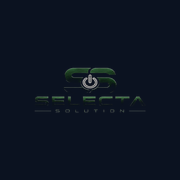
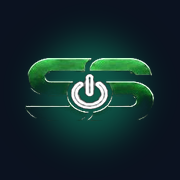
Add files via upload

Changed region(s): [[0.1389, 0.1944, 0.8611, 0.8056]]

diff --git a/index.html b/index.html
@@ -1,3 +1,4 @@
+<!-- BUILD 2026-08-25-F | selecta-banco-preco | CELULAR — CORRECAO DA FILA + ICONE (prints Igor 25/08 sobre 25-E): (1) CAUSA das linhas sobrepostas: o bloco de CSS celular (id mobile-css) estava no head, e os estilos do e-commerce ficam em blocos de estilo DENTRO do body — mesma especificidade, ordem posterior, venciam. Bloco movido para o FIM do body, com !important onde o template usa estilo inline. Cartao da fila em 4 andares: numero+produto / pedido-sku-data-valor / rastreio / status+semaforo+ocorrencia-ou-postado (botao a direita). (2) ICONES regenerados: emblema SS recortado do logo, realcado (brilho/contraste/saturacao) sobre navy com halo esmeralda — o wordmark inteiro sumia no icone. Mesmos nomes de arquivo (icon-192/512, apple-touch-icon); no iPhone e preciso remover e adicionar de novo para trocar o icone. Zero mudanca de logica, zero SQL. | base: 2026-08-25-E -->
 <!-- BUILD 2026-08-25-E | selecta-banco-preco | CELULAR + PWA + CORRECOES (ordem Igor 25/08): (1) CAUSA DO "\n\n \n" NO TOPO: tres carimbos BUILD antigos (24-B, 24-A->23-B, 21-E->21-D) foram colados com a sequencia literal barra-n entre o fim de um comentario e o inicio do seguinte, em vez de quebra de linha real; esse texto fica FORA de comentario, antes do DOCTYPE, e o navegador o joga no topo do body. Corrigido: quebra real nos 3 pontos. (2) PWA: manifest.json (standalone, navy #0b1220, icones 192/512 gerados do logo sobre navy), apple-touch-icon.png 180, meta theme-color + apple-mobile-web-app-*, viewport-fit=cover com safe-area no header em modo standalone, sw.js MINIMO registrado no fim do body (sem cache; so para instalabilidade). (3) CSS celular (<=640px) em <style id="mobile-css"> no head: header com nav rolavel e e-mail oculto; sub-abas do e-commerce rolaveis; fila Vendas em CARTAO (produto em linha propria, meta menor, controles em linha com alvo de toque 40px, select de ocorrencia sem min-width fixo, botao postado a direita); formulario Lancar venda empilhado; faixa Compras do dia com botao PDF em largura total. Zero mudanca de logica. (4) pdfCompra: em tela de toque, abre a folha nativa de compartilhar com o PDF anexado (navigator.share + canShare); se o usuario cancelar ou o navegador nao suportar, cai no download de sempre. (5) lucide fixado em 0.577.0 (estava @latest, que hoje resolve para 1.34.0 — major diferente do usado no desenvolvimento). Zero SQL. | base: 2026-08-25-D -->
 <!-- BUILD 2026-08-25-D | selecta-banco-preco | PDF COMPRA — MARCA ESCURA (correcao Igor 25/08 sobre 25-C: "a marca da gente e escura"): pagina inteira navy #0b1220 (mesma da UI), logo no escuro como no header do site (52x22mm), titulo ORCAMENTO claro 13pt a direita + data em teal, filete esmeralda; tabela como painel #111a2e sobre o navy, cabecalho teal em caixa alta, texto claro, separadores #1f2a40, QTD em teal negrito; rodape discreto com pagina. Fundo/cabecalho/rodape repetidos por pagina (willDrawPage, existe na autotable 3.8.0 carregada). Conteudo inalterado. Zero SQL. | base: 2026-08-25-C -->
 <!-- BUILD 2026-08-25-C | selecta-banco-preco | PDF COMPRA — LAYOUT (correcoes Igor 25/08 sobre 25-B): titulo vira "ORCAMENTO" (13pt, discreto, a direita); cabecalho em fundo branco com o logo em tamanho de cabecalho na cor padrao (verde metalico/cromado) e filete teal; linha orientativa REMOVIDA; tabela theme plain (sem zebra), cabecalho em caixa alta cinza com filete teal, linhas separadas por filete claro, QTD em negrito; rodape com "Selecta Solution" e numero de pagina; faixa/rodape repetidos em toda pagina (didDrawPage). Arquivo orcamento_compra_AAAA-MM-DD.pdf. Conteudo (descricao completa + quantidade, sem preco/total/pedido/comprador) inalterado. Zero SQL. | base: 2026-08-25-B -->
@@ -193,43 +194,6 @@
   }
 </style>
 <script src="https://unpkg.com/lucide@0.577.0/dist/umd/lucide.js"></script>
-<style id="mobile-css">
-/* BUILD 2026-08-25-E — camada celular. So layout; nenhuma regra de negocio. */
-@media (display-mode: standalone){
-  header.sticky{padding-top:env(safe-area-inset-top)}
-  body{padding-bottom:env(safe-area-inset-bottom)}
-}
-@media (max-width:640px){
-  header .max-w-screen-2xl{flex-wrap:nowrap;gap:8px;padding-left:10px;padding-right:10px}
-  header .max-w-screen-2xl > div:first-child{flex:1 1 auto;min-width:0;gap:10px;flex-wrap:nowrap}
-  header img{height:26px}
-  header nav{flex-wrap:nowrap;overflow-x:auto;-webkit-overflow-scrolling:touch;scrollbar-width:none;gap:2px;min-width:0}
-  header nav::-webkit-scrollbar{display:none}
-  header nav .tab-btn{white-space:nowrap;padding:8px 10px;font-size:13px}
-  #user-email{display:none}
-  #tab-ecommerce{padding:10px 10px 24px}
-  #tab-ecommerce .ecom-subnav{overflow-x:auto;scrollbar-width:none;margin-bottom:12px}
-  #tab-ecommerce .ecom-subnav::-webkit-scrollbar{display:none}
-  #tab-ecommerce .ecom-subtab{padding:10px 12px;font-size:13px}
-  #tab-ecommerce .ecard{padding:12px}
-  #fn-compras-dia{font-size:14px}
-  #vd-pdf-compra{flex:1 1 100%;min-height:42px;font-size:14px}
-  /* fila Vendas: linha vira cartao */
-  #tab-ecommerce .vli{flex-wrap:wrap;gap:8px 10px;padding:12px 0;align-items:center!important}
-  #tab-ecommerce .vli .vmain{flex:1 1 100%;gap:4px 8px!important}
-  #tab-ecommerce .vli .vmain .vp{flex:1 1 calc(100% - 28px);font-size:15px;line-height:1.3}
-  #tab-ecommerce .vli .vmain .vm{font-size:11.5px;line-height:1.5}
-  #tab-ecommerce .vli .vpill{font-size:11.5px}
-  #tab-ecommerce .vli select{min-width:0!important;flex:1 1 auto;min-height:40px;font-size:14px}
-  #tab-ecommerce .vli .vbtn.sm{min-height:40px;padding:8px 14px;font-size:13.5px}
-  #tab-ecommerce .vli > div[style*="display:flex"]{margin-left:auto}
-  /* formulario Lancar venda empilhado */
-  #tab-ecommerce .vlinha .efield{width:100%!important}
-  #tab-ecommerce .vrow3{grid-template-columns:1fr}
-  #tab-ecommerce .vd-messel{flex-wrap:wrap}
-  #tab-ecommerce .vinput{min-height:42px;font-size:15px}
-}
-</style>
 </head>
 <body class="bg-gray-900 text-gray-100 min-h-screen">
 
@@ -9444,6 +9408,47 @@ window.fiscal = (function(){
 
 </script>
 
+<style id="mobile-css">
+/* BUILD 2026-08-25-F — camada celular. Fica no FIM do body de proposito: os estilos do e-commerce vivem em <style> dentro do body
+   e venciam o bloco anterior (mesma especificidade, ordem posterior). !important onde ha estilo inline no template. So layout. */
+@media (display-mode: standalone){
+  header.sticky{padding-top:env(safe-area-inset-top)}
+  body{padding-bottom:env(safe-area-inset-bottom)}
+}
+@media (max-width:640px){
+  header .max-w-screen-2xl{flex-wrap:nowrap;gap:8px;padding-left:10px;padding-right:10px}
+  header .max-w-screen-2xl > div:first-child{flex:1 1 auto;min-width:0;gap:10px;flex-wrap:nowrap}
+  header img{height:26px}
+  header nav{flex-wrap:nowrap;overflow-x:auto;-webkit-overflow-scrolling:touch;scrollbar-width:none;gap:2px;min-width:0}
+  header nav::-webkit-scrollbar{display:none}
+  header nav .tab-btn{white-space:nowrap;padding:8px 10px;font-size:13px}
+  #user-email{display:none}
+  #tab-ecommerce{padding:10px 10px 24px}
+  #tab-ecommerce .ecom-subnav{overflow-x:auto;scrollbar-width:none;margin-bottom:12px}
+  #tab-ecommerce .ecom-subnav::-webkit-scrollbar{display:none}
+  #tab-ecommerce .ecom-subtab{padding:10px 12px;font-size:13px}
+  #tab-ecommerce .ecard{padding:12px}
+  #fn-compras-dia{font-size:14px}
+  #vd-pdf-compra{flex:1 1 100%;min-height:42px;font-size:14px}
+  /* ---- fila Vendas: cada venda vira um cartao ----
+     andar 1: numero + produto | andar 2: pedido/sku/data/valor | andar 3: rastreio | andar 4: status + semaforo + ocorrencia/postado */
+  #tab-ecommerce .vli{display:flex!important;flex-wrap:wrap!important;gap:8px!important;padding:12px 0!important;align-items:center!important}
+  #tab-ecommerce .vli .vmain{flex:1 1 100%!important;display:flex!important;flex-wrap:wrap!important;gap:3px 8px!important;align-items:baseline!important;min-width:0!important}
+  #tab-ecommerce .vli .vmain > .vm.mono:first-child{flex:0 0 auto!important;font-size:12px!important}
+  #tab-ecommerce .vli .vmain > .vp{flex:1 1 0!important;min-width:60%!important;font-size:15.5px!important;line-height:1.3!important;margin:0!important;white-space:normal!important}
+  #tab-ecommerce .vli .vmain > .vm:not(:first-child){flex:1 1 100%!important;font-size:11.5px!important;line-height:1.55!important;white-space:normal!important;word-break:break-word}
+  #tab-ecommerce .vli .vmain > .vm[style*="inline-flex"]{display:flex!important;gap:6px!important}
+  #tab-ecommerce .vli > .vpill{flex:0 0 auto!important;font-size:11.5px!important;padding:4px 10px!important}
+  #tab-ecommerce .vli > select{flex:1 1 auto!important;min-width:0!important;width:auto!important;min-height:40px!important;font-size:14px!important;padding:6px 10px!important}
+  #tab-ecommerce .vli > div[style*="display:flex"]{margin-left:auto!important}
+  #tab-ecommerce .vli .vbtn.sm{min-height:40px!important;padding:8px 16px!important;font-size:13.5px!important}
+  /* formulario Lancar venda empilhado */
+  #tab-ecommerce .vlinha .efield{width:100%!important}
+  #tab-ecommerce .vrow3{grid-template-columns:1fr!important}
+  #tab-ecommerce .vd-messel{flex-wrap:wrap!important}
+  #tab-ecommerce .vinput{min-height:42px!important;font-size:15px!important}
+}
+</style>
 <script>/* BUILD 2026-08-25-E: instalabilidade (sem cache) */if("serviceWorker" in navigator){window.addEventListener("load",()=>{navigator.serviceWorker.register("sw.js",{scope:"./"}).catch(()=>{});});}</script>
 </body>
 </html>
